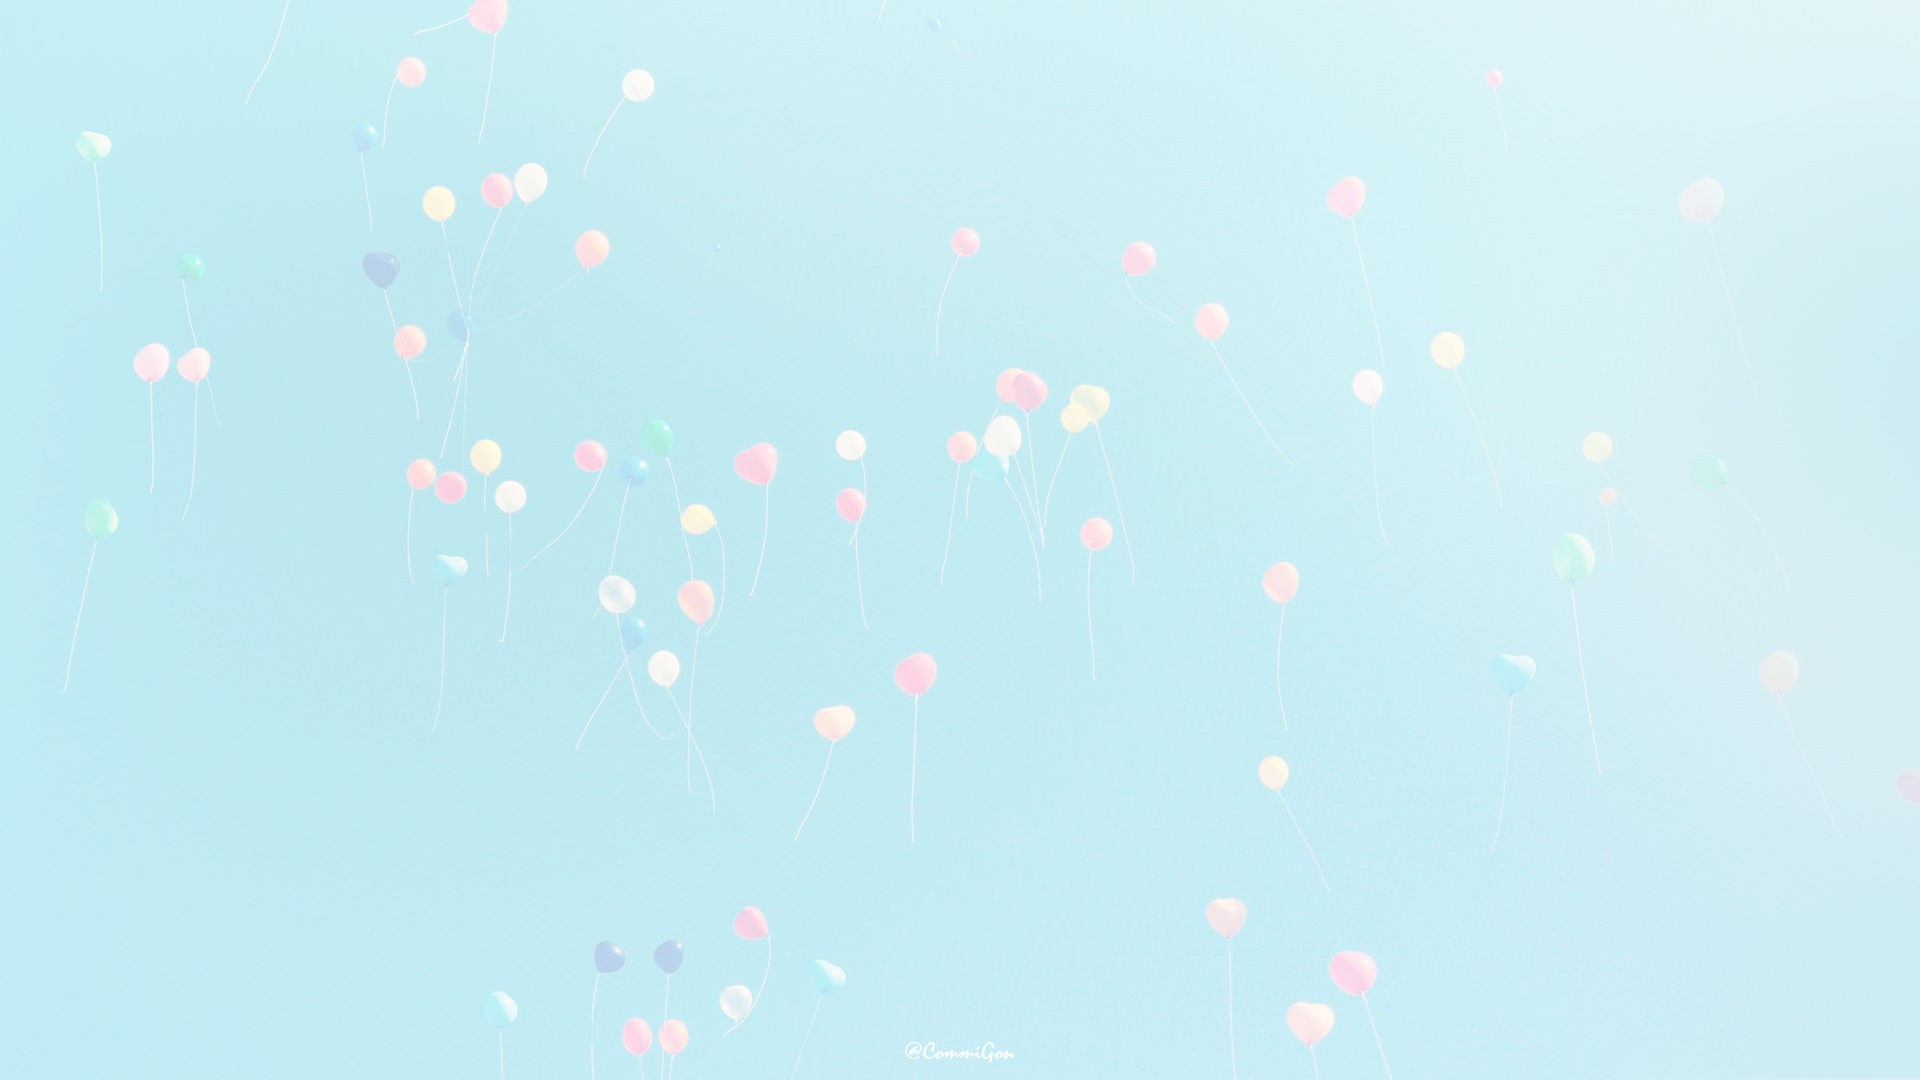
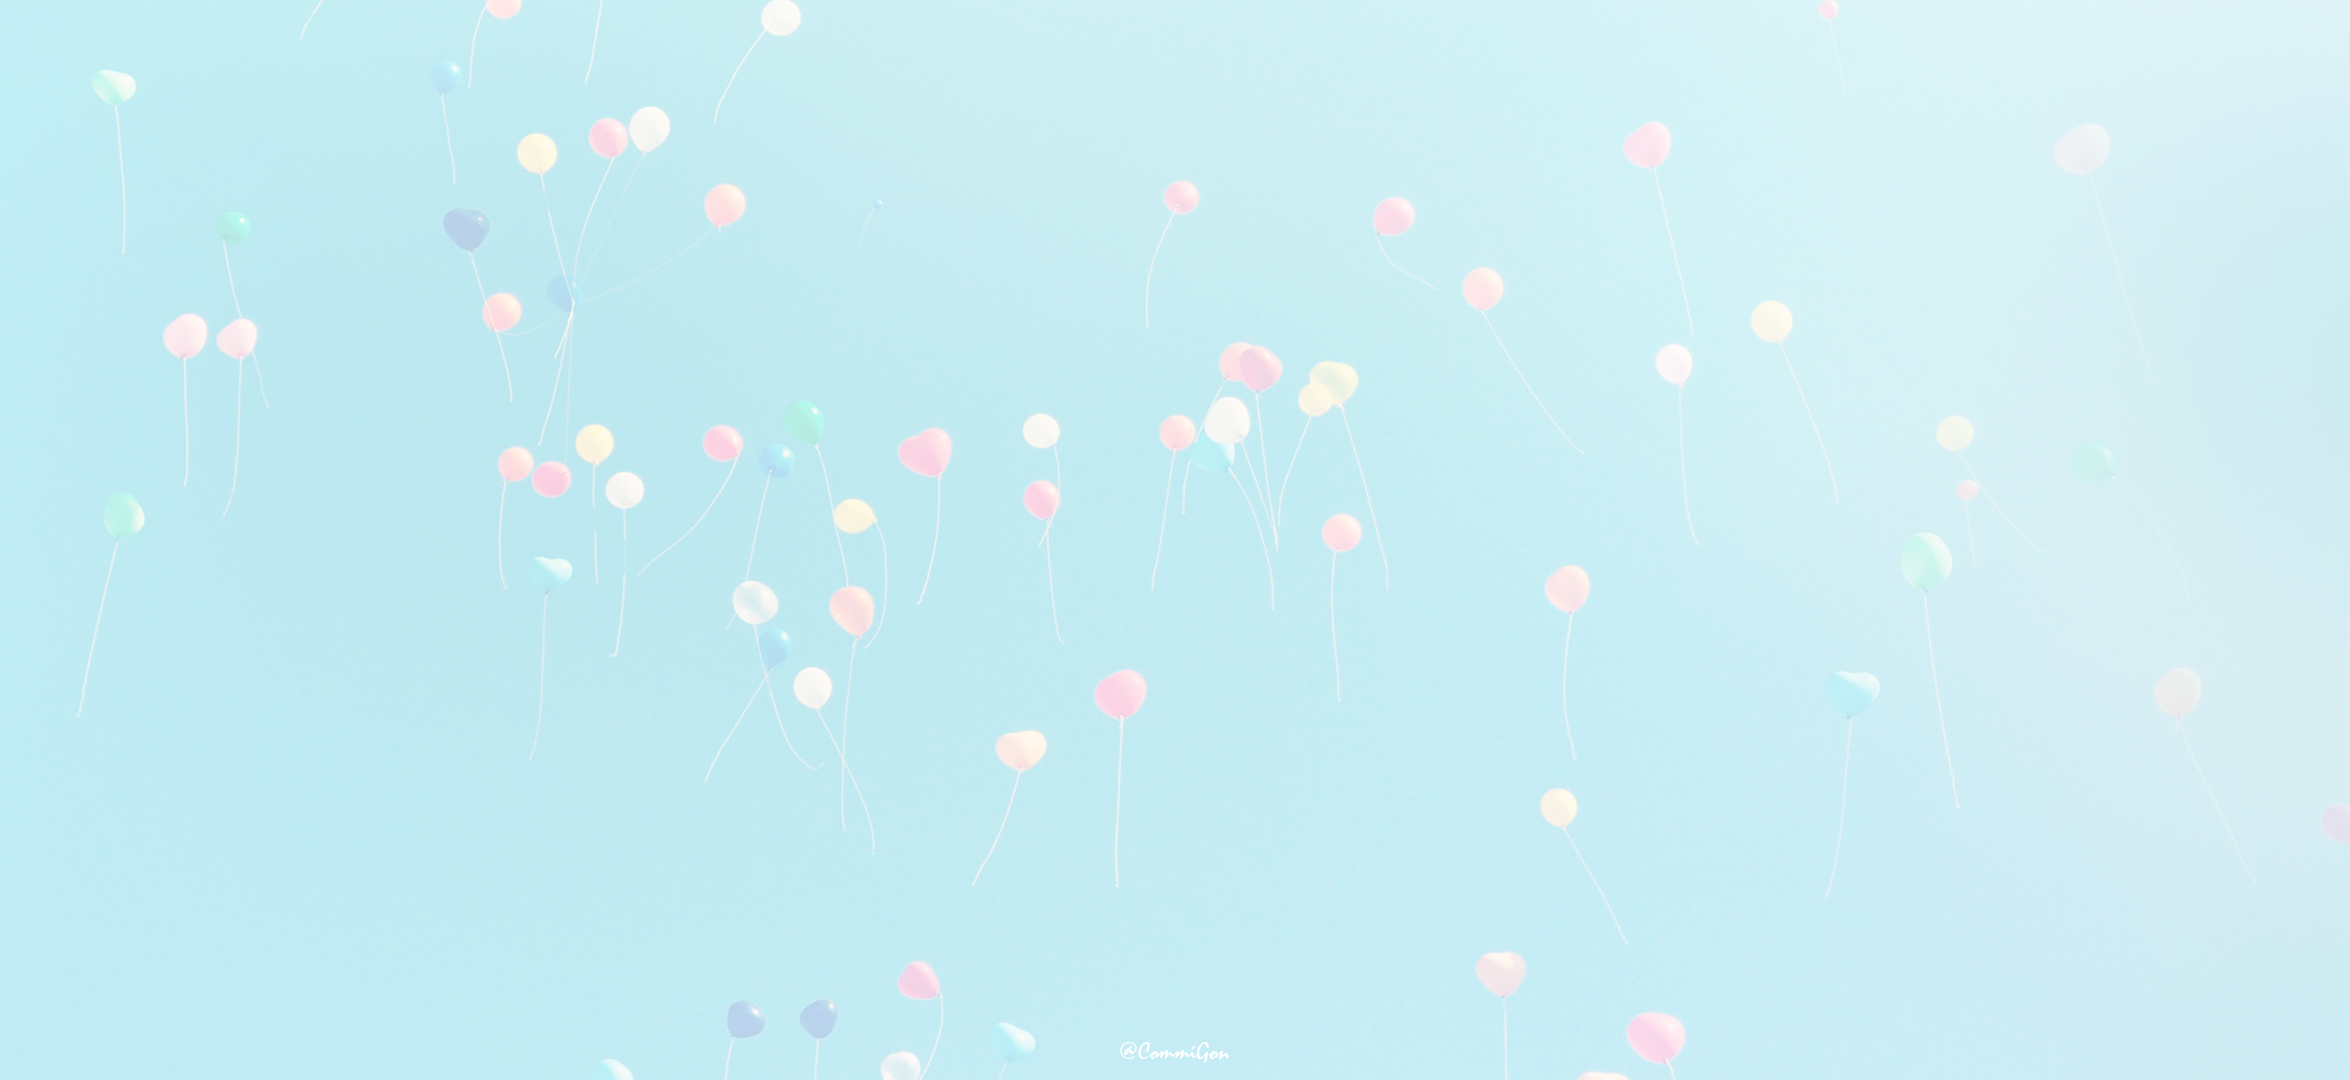
test

diff --git a/script.js b/script.js
@@ -1,12 +1,7 @@
 $(document).ready(function() {
     $(".main-container").addClass("show");
-    
-    // 페이지 로드 시와 창 크기 조절 시 배율 조정 실행
-    $(window).on('resize', function() {
-        adjustLayoutScale();
-    });
-    adjustLayoutScale();
-});
+})
+
 $(document).on('click', '.center-img-area', function(e) {
     e.preventDefault();
 
@@ -24,29 +19,3 @@ $(document).on('click', '.btn', function(e) {
     const img = $('<img>').attr('src', `./assets/260317/orgImg/${id}.png`);
     $(".sub-center-img-area").append(img);
 })
-
-function adjustLayoutScale() {
-    const targetWidth = 1920;
-    const targetHeight = 1080;
-    
-    // 현재 브라우저의 실제 가용 가로/세로 크기
-    const windowWidth = window.innerWidth;
-    const windowHeight = window.innerHeight;
-    
-    // 1920x1080 대비 현재 창의 비율 중 더 작은 값을 선택 (화면에 꽉 차게)
-    const scale = Math.min(windowWidth / targetWidth, windowHeight / targetHeight);
-    
-    // main-container와 sub-container에 배율 적용
-    // 중앙을 기준으로 축소/확대되도록 설정합니다.
-    $(".main-container, .sub-container").css({
-        "transform": `scale(${scale})`,
-        "transform-origin": "center center",
-        "width": `${targetWidth}px`,
-        "height": `${targetHeight}px`,
-        "position": "fixed",
-        "left": "50%",
-        "top": "50%",
-        "margin-left": `-${targetWidth / 2}px`,
-        "margin-top": `-${targetHeight / 2}px`
-    });
-}

diff --git a/style.css b/style.css
@@ -1,10 +1,6 @@
 body {
     margin: 0;
-    padding: 0;
-    width: 100vw;
     height: 100vh;
-    background-color: #000; 
-    overflow: hidden; /* 배율 조절 시 생길 수 있는 스크롤바 방지 */
 }
 ::-webkit-scrollbar {
     width: 16px;
@@ -21,6 +17,7 @@ body {
     justify-content: center;
     align-items: center;
     overflow: hidden;
+    height: 100%;
     position: relative; 
 }
 .main-container.show {
@@ -38,6 +35,7 @@ body {
     pointer-events: none; 
     mix-blend-mode: screen;
 }
+
 .center-img-area {
     background: url('assets/260317/main-center-img.png') no-repeat center center;
     width: 476px;
@@ -50,6 +48,7 @@ body {
     z-index: 2; 
     animation: floating 3s ease-in-out infinite;
 }
+
 .sub-container {
     display: none;
     background: url('assets/260317/sub.png') no-repeat center center;
@@ -57,17 +56,10 @@ body {
     justify-content: center;
     align-items: center;
     overflow: hidden;
+    height: 100%;
     position: relative; 
     width: 100%;
 }
-.main-container, .sub-container {
-    /* 스크립트에서 제어하므로 기존 height: 100% 등을 width/height 1920/1080으로 고정 */
-    width: 1920px;
-    height: 1080px;
-    display: none;
-    /* 이하 기존 속성 유지 */
-}
-
 .sub-container.show {
     display: flex;
     flex-direction: row;
